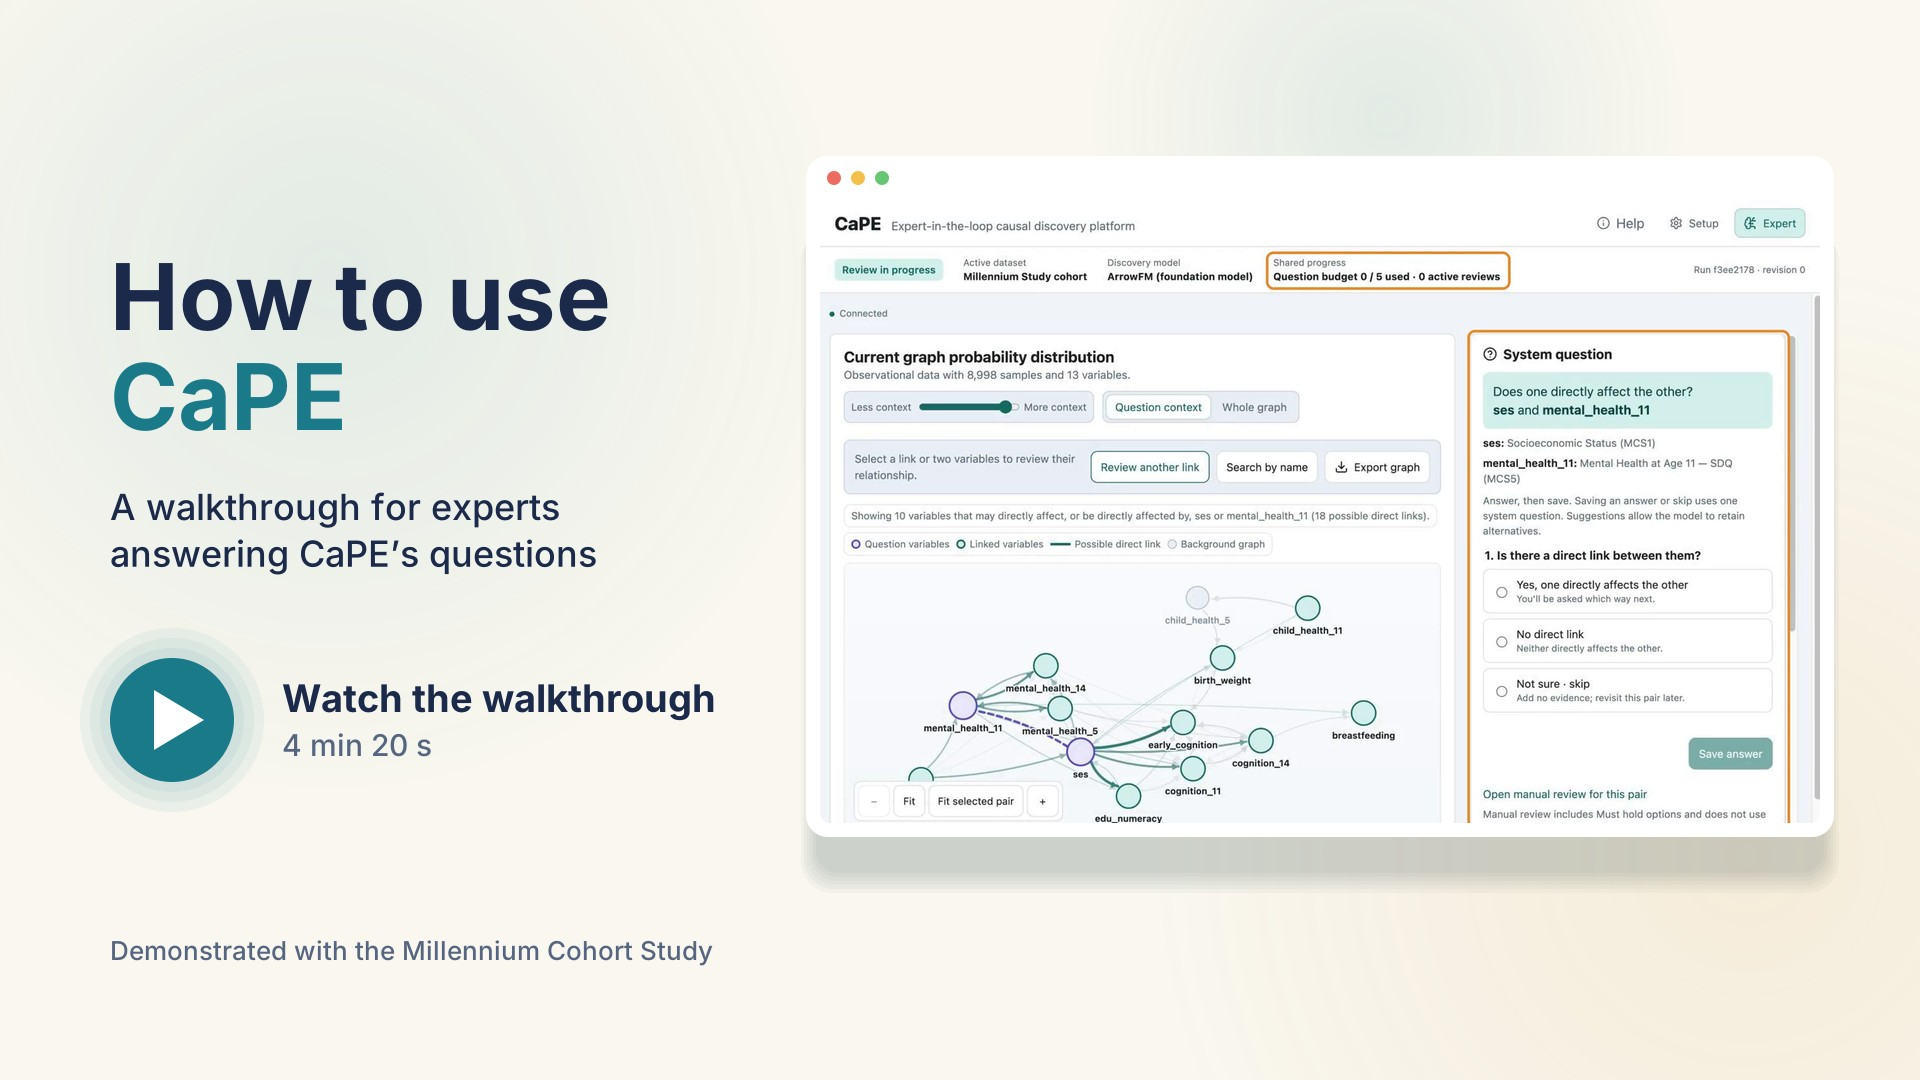
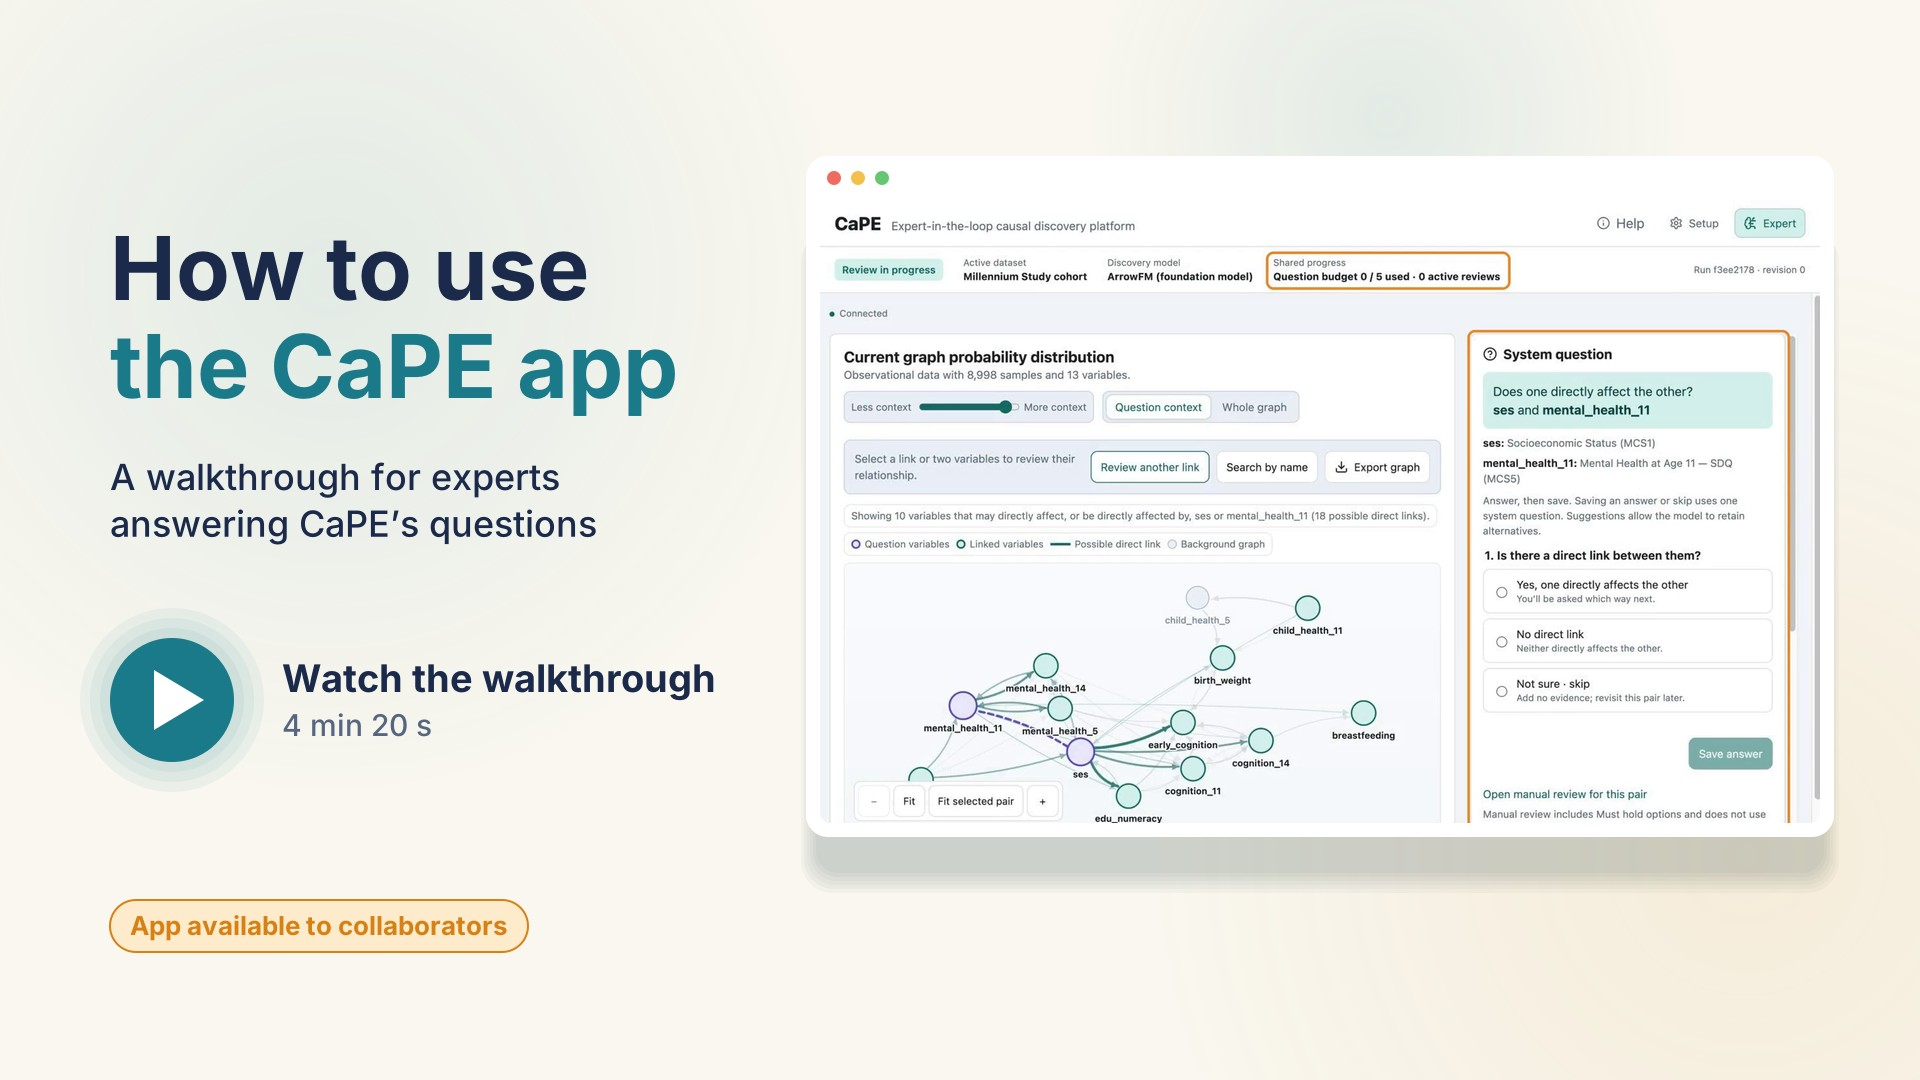
code vs app

diff --git a/docs/index.html b/docs/index.html
@@ -72,6 +72,8 @@ nav ul a:hover{color:var(--ink)}
 .demo-head{display:flex;justify-content:space-between;align-items:baseline;gap:12px;font-family:var(--sans)}
 .demo-head h3{font-size:1.08rem}
 .demo-head .count{color:var(--muted);font-size:.95rem}
+.demo-note{margin:2px 0 0;font:400 .92rem var(--sans);color:var(--muted)}
+.badge{display:inline-block;vertical-align:middle;margin-left:14px;font:600 .9rem/1 var(--sans);color:var(--amber-ink);background:#FEF5E8;border:1.5px solid var(--amber);border-radius:999px;padding:7px 13px;position:relative;top:-4px}
 .demo svg.graph{display:block;width:100%;height:auto;margin:6px 0 4px}
 .q{border-radius:16px;background:#FEF5E8;border:1.5px solid var(--amber);padding:14px 16px}
 .q p{margin:0 0 10px;font:500 1.08rem/1.35 var(--sans)}
@@ -149,9 +151,9 @@ footer img{height:84px;background:#fff;border-radius:12px;padding:6px}
     <ul>
       <li class="opt"><a href="#video">Video</a></li>
       <li><a href="#how">How it works</a></li>
-      <li class="opt"><a href="#walkthrough">How to use</a></li>
       <li><a href="#results">Results</a></li>
       <li><a href="#start">Code</a></li>
+      <li class="opt"><a href="#app">The app</a></li>
       <li><a href="#cite">Cite</a></li>
     </ul>
   </div>
@@ -179,6 +181,7 @@ footer img{height:84px;background:#fff;border-radius:12px;padding:6px}
         <h3 id="demo-title">Try it: you are the expert</h3>
         <span class="count" id="qcount">543 possible networks</span>
       </div>
+      <p class="demo-note">A simplified illustration of how CaPE updates its belief, running in your browser.</p>
       <svg class="graph" id="graph" viewBox="0 0 440 270" role="img" aria-label="Four variables and CaPE's current belief about the links between them"></svg>
       <div class="q" id="question" aria-live="polite">
         <p id="qtext">Loading…</p>
@@ -255,21 +258,6 @@ footer img{height:84px;background:#fff;border-radius:12px;padding:6px}
   </div>
 </section>
 
-<section id="walkthrough">
-  <div class="wrap">
-    <div class="prose">
-      <h2>How to use CaPE</h2>
-      <p style="margin-top:16px">A four-minute walkthrough for experts: how to read the diagram, answer CaPE’s questions, see what each answer changed, review any link yourself, rule out a direction you’re sure about, and finish with the learned graph. It is demonstrated with the Millennium Cohort Study: 13 measures for around 9,000 children, from 9 months to age 17.</p>
-    </div>
-    <div class="video-frame">
-      <video id="howto-video" controls preload="metadata" poster="assets/cape_how_to_use_poster.jpg" data-stop-before="0.8" data-ease-out="0">
-        <source src="assets/CaPE_how_to_use.mp4" type="video/mp4">
-        Your browser can’t play this video. <a href="assets/CaPE_how_to_use.mp4">Download it instead</a>.
-      </video>
-    </div>
-  </div>
-</section>
-
 <section id="results">
   <div class="wrap">
     <h2>Results</h2>
@@ -307,7 +295,8 @@ footer img{height:84px;background:#fff;border-radius:12px;padding:6px}
     <div class="cols">
       <div class="prose">
         <h2>Get started</h2>
-        <p style="margin-top:16px">The code reproduces every experiment in the paper with one command. CaPE works with posterior samples from any causal discovery method, so you can plug in your own.</p>
+        <p style="margin-top:16px">This repository contains the CaPE algorithm and the code to reproduce every experiment in the paper with one command. CaPE works with posterior samples from any causal discovery method, so you can plug in your own.</p>
+        <p>The interactive app shown below is not part of this repository.</p>
         <p>See the <a href="https://github.com/csiro-funml/CaPE#readme">README</a> for the repository layout and experiment entry points, and <a href="https://github.com/csiro-funml/CaPE/blob/main/REPRODUCIBILITY.md">REPRODUCIBILITY.md</a> for details. Released under the Apache 2.0 licence.</p>
       </div>
       <div>
@@ -324,6 +313,22 @@ pip install -r requirements.txt
 <span class="c"># or run one experiment</span>
 python experiments/run_sachs_hitl.py</code></pre>
       </div>
+    </div>
+  </div>
+</section>
+
+<section id="app">
+  <div class="wrap">
+    <div class="prose">
+      <h2>The CaPE app <span class="badge">Available to collaborators</span></h2>
+      <p style="margin-top:16px">We have built an interactive app on top of the CaPE algorithm for running elicitation sessions with domain experts. This walkthrough shows how an expert uses it: reading the diagram, answering CaPE’s questions, seeing what each answer changed, reviewing any link themselves, ruling out a direction they are sure about, and finishing with the learned graph. It is demonstrated with the Millennium Cohort Study: 13 measures for around 9,000 children, from 9 months to age 17.</p>
+      <p>The app is currently available to our collaborators only. If you would like to use it on your own causal question, get in touch at <a href="mailto:edwin.bonilla@csiro.au">edwin.bonilla@csiro.au</a>.</p>
+    </div>
+    <div class="video-frame">
+      <video id="howto-video" controls preload="metadata" poster="assets/cape_how_to_use_poster.jpg" data-stop-before="0.8" data-ease-out="0">
+        <source src="assets/CaPE_how_to_use.mp4" type="video/mp4">
+        Your browser can’t play this video. <a href="assets/CaPE_how_to_use.mp4">Download it instead</a>.
+      </video>
     </div>
   </div>
 </section>
@@ -354,7 +359,8 @@ python experiments/run_sachs_hitl.py</code></pre>
   <div class="wrap">
     <div>
       <p style="margin:0 0 6px">CaPE: Causal Preference Elicitation. Bonilla, Zhao and Steinberg, ICML 2026.</p>
-      <p style="margin:0">Questions about the paper or code? <a href="https://github.com/csiro-funml/CaPE/issues">Open an issue on GitHub</a> or email <a href="mailto:edwin.bonilla@csiro.au">edwin.bonilla@csiro.au</a>.</p>
+      <p style="margin:0 0 6px">Questions about the paper or code? <a href="https://github.com/csiro-funml/CaPE/issues">Open an issue on GitHub</a> or email <a href="mailto:edwin.bonilla@csiro.au">edwin.bonilla@csiro.au</a>.</p>
+      <p style="margin:0">Interested in using the CaPE app? Email <a href="mailto:edwin.bonilla@csiro.au">edwin.bonilla@csiro.au</a>.</p>
     </div>
     <img src="assets/cape_logo.svg" alt="CaPE logo">
   </div>
